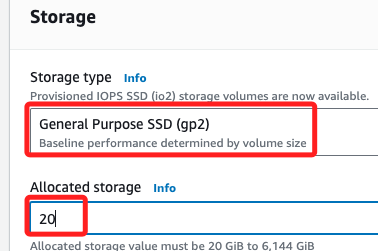
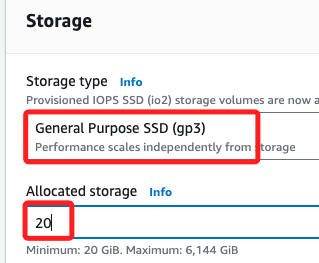
Commit on 2024-09-10 17:36:56

diff --git a/01_課程筆記/20240905/01_0905/08_DB/01_官方教程.md b/01_課程筆記/20240905/01_0905/08_DB/01_官方教程.md
@@ -2,132 +2,202 @@
 
 _Lab 5: 建立資料庫伺服器並使用應用程式與資料庫互動_
 
-
-## 步驟
-
-1. 建立 RDS DB 安全群組
-
-2. 建立 DB 子網路群組
-
-3. 建立 Amazon RDS DB 實例
-
-4. 與您的資料庫互動
+<br>
 
 ## 建立 RDS DB 安全群組
 
 1. 在控制台搜尋並進入 `VPC`。
 
+<br>
+
 2. 在左側導航列中，選擇 `Security Groups`；預設有五個安全群組。
 
     ![](images/img_01.png)
+
+<br>
 
 3. 點擊右上角 `Create security group`，配置以下設定；Security group name `DB Security Group`、Description `Permit access from Web Security Group`；VPC 選擇 `Lab VPC`。
 
     ![](images/img_02.png)
 
+<br>
+
 4. 在 `Inbound rules` 中選擇 `Add rule`，設置 Type `MySQL/Aurora (3306)`，Source 為 `Web Security Group`。
 
     ![](images/img_03.png)
 
+<br>
+
 5. 點擊右下角 `Create security group`。
 
+<br>
 
 ## 建立 DB 子網路群組
 
 1. 在控制台中搜尋並進入 `RDS`。
 
+<br>
+
 2. 在左側導航列中，選擇 `Subnet groups`。
 
+<br>
+
 3. 選擇 `Create DB Subnet Group`，並配置以下設定；Name `DB-Subnet-Group`、Description `DB Subnet Group`，VPC 一樣從下拉選單中選取 `Lab VPC`。
+
+<br>
 
 4. 向下捲動至 `Add subnets` 區塊，選擇以下兩個區域，下拉 Availability Zones 選單勾選 `us-east-1a` 和 `us-east-1b`。
 
     ![](images/img_04.png)
 
+<br>
+
 5. Subnets CIDR 範圍為 `10.0.1.0/24` 和 `10.0.3.0/24` 的子網路。
 
     ![](images/img_05.png)
 
+<br>
+
 6. 選擇 `Create`。
+
+<br>
 
 ## 建立 Amazon RDS DB 實例
 
 _同樣在 RDS_
 
+<br>
+
 1. 在左側欄中選擇 `Databases`，並選擇 `Create database`。
+
+<br>
 
 2. 選擇 `MySQL` 作為引擎。
 
+<br>
+
 3. 在 `Templates` 下選擇 `Dev/Test`。
 
-![](images/img_06.png)
+    ![](images/img_06.png)
+
+<br>
 
 4. 在 `Availability and durability` 選擇 `Multi-AZ DB instance`。
 
-![](images/img_07.png)
+    ![](images/img_07.png)
+
+<br>
 
 5. 接著進行以下設置，在 DB instance identifier 更名為 `lab-db`；展開 `Credentials Settings`，在 Master username 更名為 `main`。
 
-![](images/img_08.png)
+    ![](images/img_08.png)
+
+<br>
 
 6. 設定密碼，選取 `Self managed`，然後 Master password、Confirm password 都輸入 `lab-password`。
 
-![](images/img_09.png)
+    ![](images/img_09.png)
+
+<br>
 
 7. 在 DB instance class 區塊，切換到 `Burstable classes`，並選取  `db.t3.micro`。
 
-![](images/img_10.png)
+    ![](images/img_10.png)
 
-8. 在 `Storage` 區塊，因為教程並未明確指出要設定 `gp2` 或 `gp3`，這裡設置 Storage type 為 `General Purpose SSD(gp2)`，Allocated storage 設置為 `20` GB；另外，在 AWS 的最新建議中，gp3 通常是更具成本效益且靈活的選擇。
+<br>
 
-![](images/img_11.png)
+8. 在 `Storage` 區塊，因為教程並未明確指出要設定 `gp2` 或 `gp3`，這裡設置 Storage type 為預設的 `General Purpose SSD(gp3)`，Allocated storage 設置為 `20` GB；另外，在 AWS 的最新建議中，gp3 通常是更具成本效益且靈活的選擇。
+
+    ![](images/img_11.png)
+
+<br>
 
 9. 在 Virtual Private Cloud (VPC) 選取 `Lab VPC`。
 
-![](images/img_12.png)
+    ![](images/img_12.png)
+
+<br>
 
 10. Existing VPC security groups 下拉選單中勾選 `DB Security Group`，並取消勾選 `default`。
 
-![](images/img_13.png)
+    ![](images/img_13.png)
+
+<br>
 
 11. 在 `Monitoring` 區塊取消勾選 `Enable Enhanced monitoring`。
 
-![](images/img_14.png)
+    ![](images/img_14.png)
 
-12. 展開 `Additional configuration`，在 `Backup` 區塊取消勾選 `Enable automatic backups`。
+<br>
 
-![](images/img_15.png)
+12. 展開 `Additional configuration`，在 `Backup` 區塊取消勾選 `Enable automatic backups` 及 `Enable encryption` 兩個 Check Box。
 
-13. 點擊右下角的 `Create database`，等待數分鐘，直到資料庫狀態顯示為 `Available`。
+    ![](images/img_15.png)
 
-![](images/img_16.png)
+<br>
 
+13. 點擊右下角的 `Create database`，等待約三四分鐘，直到資料庫狀態顯示為 `Available`，會先經過 initialing、modifying。
+
+    ![](images/img_16.png)
+
+
+<br>
 14. 完成後點擊進入資料庫實例中，預設會在 `Connectivity & security` 頁籤中，複製 `Endpoint` 並儲存；尚未完成時會顯示空白。
 
-![](images/img_17.png)
+    ![](images/img_17.png)
+
+<br>
 
 ## 與資料庫互動
 
 1. 從 Lab 說明頁右上角處，點擊 `! AWS Details` 展開詳細資訊。
 
-![](images/img_18.png)
+    ![](images/img_18.png)
+
+<br>
 
 2. 中取得 Web 伺服器的 IP 地址。
 
-![](images/img_19.png)
+    ![](images/img_19.png)
+
+<br>
 
 3. 在新的瀏覽器標籤中貼上該 IP 地址，並按下 Enter。
 
-![](images/img_20.png)
+    ![](images/img_20.png)
+
+<br>
 
 4. 在網頁應用程式中選擇 `RDS`，並配置以下設定；Endpoint 貼上之前複製的 `Endpoint`，Database 命名為 `lab`、Username `main`、Password `lab-password`；然後點擊下方的 `Submit`。
 
-![](images/img_21.png)
+    ![](images/img_21.png)
 
-5. 應用程式會顯示資料庫正在儲存數據，並顯示一個通訊錄應用程式；點擊 `Load Test`。
+<br>
 
-![](images/img_22.png)
+5. 應用程式會顯示資料庫正在儲存數據。
+
+    ![](images/img_23.png)
+
+<br>
+
+6. 然後顯示一個通訊錄應用程式。
+
+    ![](images/img_24.png)
+
+<br>
+
+7. 點擊 `Load Test` 可查看當前 CPU 負載率。
+
+    ![](images/img_22.png)
+
+<br>
 
 ## 完成
 
 _`Submit` & `Yes`_
+
+<br>
+
+___
+
+_END_
